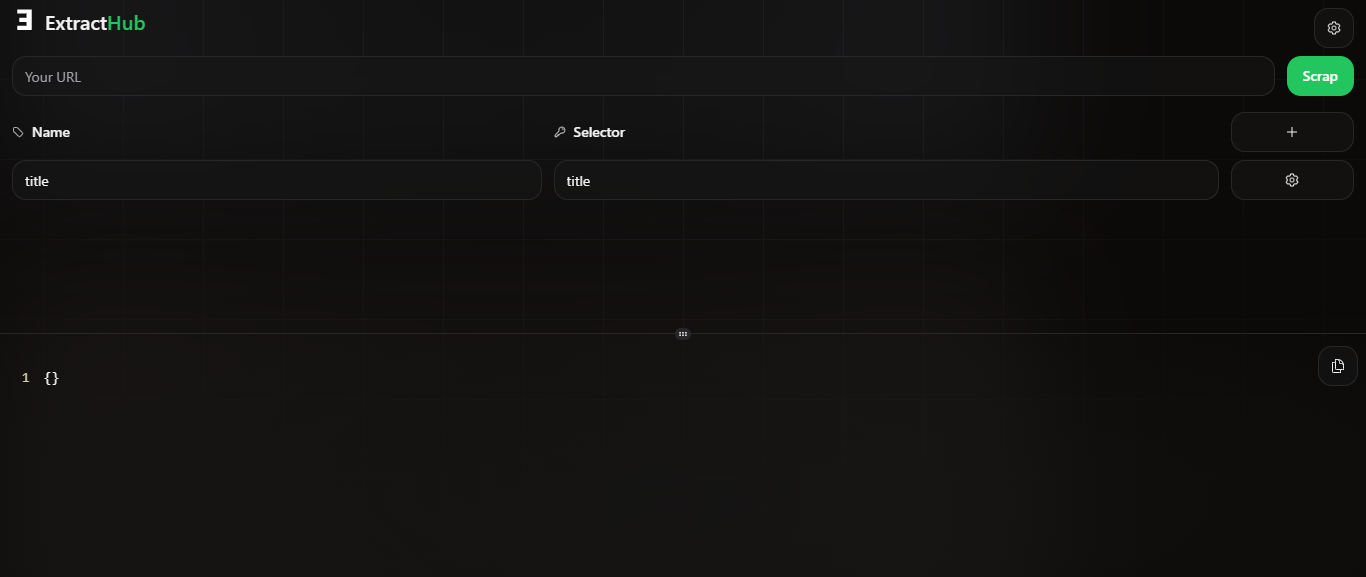
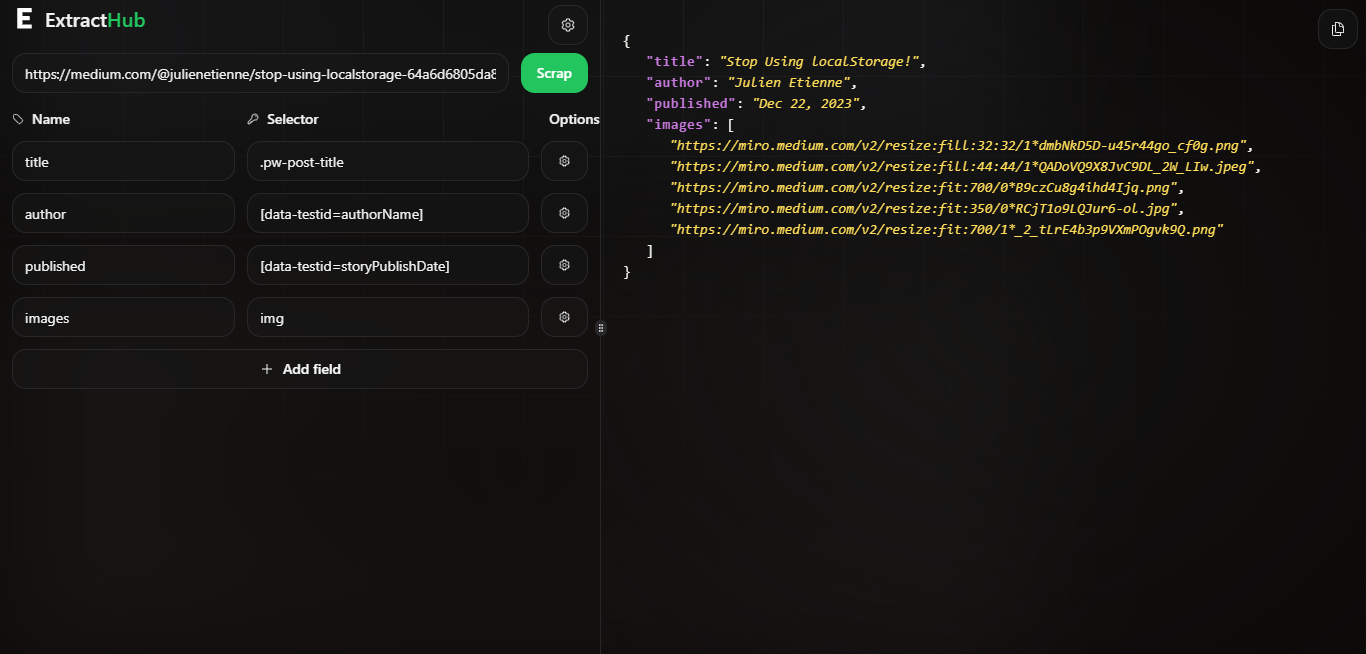
Add bento grid to showcase

diff --git a/components/scraper/scraper-form.tsx b/components/scraper/scraper-form.tsx
@@ -13,7 +13,7 @@ import { yupResolver } from '@hookform/resolvers/yup'
 import { SubmitHandler, useFieldArray, useForm } from 'react-hook-form'
 import { store, updateStore } from '@/stores/scrapper-store'
 import { adapater } from '@/lib/scraper-adapter'
-import { Tag, Key, Plus } from '@/icons'
+import { Tag, Key, Plus, Cog } from '@/icons'
 import { scraper } from '@/actions/playwright-scraper'
 import { FormValues, Field } from '@/types/scraper-types'
 import { useStore } from '@nanostores/react'
@@ -90,7 +90,7 @@ const ScraperForm = () => {
 	}
 
 	return (
-		<section className='relative h-fit max-h-full px-3 overflow-hidden overflow-y-auto	'>
+		<section className='relative max-h-full px-3 overflow-hidden overflow-y-auto h-fit '>
 			<Navbar />
 			<Form {...form}>
 				<form
@@ -125,7 +125,7 @@ const ScraperForm = () => {
 							)}
 						</Button>
 					</div>
-					<div className='flex flex-col gap-2 pb-5 '>
+					<div className='flex flex-col gap-3 pb-5 '>
 						<div className='grid items-center w-full grid-cols-10 gap-3 text-sm font-medium'>
 							<p className='flex items-center w-full col-span-4 gap-2'>
 								<Tag className='w-3 h-3' />
@@ -135,14 +135,10 @@ const ScraperForm = () => {
 								<Key className='w-3 h-3' />
 								<span>Selector</span>
 							</p>
-							<Button
-								type='button'
-								variant='secondary'
-								onClick={addNewField}
-								className='max-w-full custom'
-							>
-								<Plus className='w-4 h-4' />
-							</Button>
+							<p className='flex items-center w-full gap-2'>
+								<Cog className='w-3 h-3' />
+								<span>Options</span>
+							</p>
 						</div>
 						{fields.map((f, i) => (
 							<div key={f.id} className='grid w-full grid-cols-10 gap-3'>
@@ -185,6 +181,15 @@ const ScraperForm = () => {
 								/>
 							</div>
 						))}
+						<Button
+							type='button'
+							variant='secondary'
+							onClick={addNewField}
+							className='flex max-w-full gap-2 custom'
+						>
+							<Plus className='w-4 h-4' />
+							Add field
+						</Button>
 					</div>
 				</form>
 			</Form>

diff --git a/components/showcase.tsx b/components/showcase.tsx
@@ -7,25 +7,28 @@ import {
 	Amazon,
 	Dev,
 	Google,
+	Medium,
 	Nike,
 	Npm,
 	Wordpress,
 	Youtube,
 } from '@/icons'
+import Bento from './bento'
 const Showcase = () => {
 	return (
-		<section className='w-full py-5 max-w-6xl mx-auto flex flex-col gap-20 px-9'>
+		<section className='flex flex-col w-full max-w-6xl gap-20 py-5 mx-auto px-9'>
 			<Image
 				src={img1}
 				alt=''
 				width={1080}
 				height={519}
 				quality={100}
-				className='overflow-hidden rounded-md mx-auto intersect:animate-fade-up intersect:delay-1000'
+				className='mx-auto overflow-hidden rounded-md intersect:animate-fade-up intersect:delay-1000'
 				priority
+				sizes='(min-width:300px)'
 			/>
 
-			<div className='flex flex-col md:flex-row gap-5 md:gap-10 w-full justify-between'>
+			<div className='flex flex-col justify-between w-full gap-5 md:flex-row md:gap-10'>
 				<h2 className='text-4xl  w-full md:w-[80ch] text-balance font-medium intersect:animate-fade-right intersect:animate-delay-300'>
 					Who said that <span className='text-primary'>extracting</span>{' '}
 					data is boring?
@@ -40,18 +43,19 @@ const Showcase = () => {
 				</p>
 			</div>
 
-			<div>
-				<Ticker >
-					<Youtube className='w-14 h-14' />
-					<Google className='w-14 h-14' />
-					<Amazon className='w-28 h-14' />
-					<Dev className='w-14 h-14' />
-					<Wordpress className='w-14 h-14' />
-					<Adidas className='w-14 h-14' />
-					<Nike className='w-14 h-14' />
-					<Npm className='w-14 h-14' />
-				</Ticker>
-			</div>
+			<Ticker>
+				<Medium className='w-14 h-14' />
+				<Youtube className='w-14 h-14' />
+				<Google className='w-14 h-14' />
+				<Amazon className='w-28 h-14' />
+				<Dev className='w-14 h-14' />
+				<Wordpress className='w-14 h-14' />
+				<Adidas className='w-14 h-14' />
+				<Nike className='w-14 h-14' />
+				<Npm className='w-14 h-14' />
+			</Ticker>
+
+			<Bento />
 		</section>
 	)
 }

diff --git a/components/config.tsx b/components/config.tsx
@@ -19,7 +19,7 @@ export const Config = () => {
 					<Cog className='w-4 h-4' />
 				</Button>
 			</PopoverTrigger>
-			<PopoverContent className='relative flex flex-col gap-3 p-4 m-2 overflow-hidden border rounded-md select-none bg-neutral-900 w-60 z-10'>
+			<PopoverContent className='relative z-10 flex flex-col gap-3 p-4 m-2 overflow-hidden border rounded-md select-none bg-neutral-900 w-60'>
 				<span className='w-full h-20 bg-gradient-radial from-gray-500/50 to-stone-500 opacity-50 absolute blur-3xl z-[1] -top-14'></span>
 				<div className='flex items-center justify-between mb-2'>
 					<p className='font-medium'>Editor Config</p>
@@ -60,12 +60,7 @@ export const Config = () => {
 				<div className='z-10 flex items-center justify-between'>
 					<label
 						htmlFor='switch-show-line-numbers'
-						className={cn(
-							'text-sm font-medium text-foreground duration-300 cursor-pointer',
-							{
-								'text-green-500': showLineNumbers,
-							}
-						)}
+						className='text-sm font-medium duration-300 cursor-pointer text-foreground'
 					>
 						Show line numbers
 					</label>
@@ -79,12 +74,7 @@ export const Config = () => {
 				<div className='z-10 flex items-center justify-between'>
 					<label
 						htmlFor='switch-wrap-long-lines'
-						className={cn(
-							'text-sm font-medium text-foreground duration-300 cursor-pointer',
-							{
-								'text-green-500': wrapLongLines,
-							}
-						)}
+						className='text-sm font-medium text-foreground duration-300 cursor-pointer'
 					>
 						Wrap long lines
 					</label>

diff --git a/icons/wordpress.jsx b/icons/wordpress.jsx
@@ -8,7 +8,7 @@ export const Wordpress = ({ className = '', ...props }) => {
 			className={cn('w-5 h-5', className)}
 			{...props}
 		>
-			<g fill='#21759b'>
+			<g fill='white'>
 				<path d='m8.708 61.26c0 20.802 12.089 38.779 29.619 47.298l-25.069-68.686c-2.916 6.536-4.55 13.769-4.55 21.388z' />
 				<path d='m96.74 58.608c0-6.495-2.333-10.993-4.334-14.494-2.664-4.329-5.161-7.995-5.161-12.324 0-4.831 3.664-9.328 8.825-9.328.233 0 .454.029.681.042-9.35-8.566-21.807-13.796-35.489-13.796-18.36 0-34.513 9.42-43.91 23.688 1.233.037 2.395.063 3.382.063 5.497 0 14.006-.667 14.006-.667 2.833-.167 3.167 3.994.337 4.329 0 0-2.847.335-6.015.501l19.138 56.925 11.501-34.493-8.188-22.434c-2.83-.166-5.511-.501-5.511-.501-2.832-.166-2.5-4.496.332-4.329 0 0 8.679.667 13.843.667 5.496 0 14.006-.667 14.006-.667 2.835-.167 3.168 3.994.337 4.329 0 0-2.853.335-6.015.501l18.992 56.494 5.242-17.517c2.272-7.269 4.001-12.49 4.001-16.989z' />
 				<path d='m62.184 65.857-15.768 45.819c4.708 1.384 9.687 2.141 14.846 2.141 6.12 0 11.989-1.058 17.452-2.979-.141-.225-.269-.464-.374-.724z' />

diff --git a/components/bento.tsx b/components/bento.tsx
@@ -1,0 +1,22 @@
+import Image from 'next/image'
+
+const Bento = () => {
+	return (
+		<div className='grid grid-cols-12 gap-4 max-h-fit h-[600px]'>
+			<div className='relative col-span-5 overflow-hidden rounded-md intersect:animate-fade-right intersect:animate-delay-300'>
+				<div className='w-full h-full bg-neutral-800/30 animate-pulse'></div>
+			</div>
+			<div className='relative col-span-7 overflow-hidden rounded-md intersect:animate-fade-left intersect:animate-delay-300'>
+				<div className='w-full h-full bg-neutral-800/30 animate-pulse'></div>
+			</div>
+			<div className='relative col-span-7 overflow-hidden rounded-md intersect:animate-fade-right intersect:animate-delay-500'>
+				<div className='w-full h-full bg-neutral-800/30 animate-pulse'></div>
+			</div>
+			<div className='relative col-span-5 overflow-hidden rounded-md intersect:animate-fade-left intersect:animate-delay-700'>
+				<div className='w-full h-full bg-neutral-800/30 animate-pulse'></div>
+			</div>
+		</div>
+	)
+}
+
+export default Bento

diff --git a/icons/youtube.jsx b/icons/youtube.jsx
@@ -8,9 +8,12 @@ export const Youtube = ({ className = '', ...props }) => {
 		>
 			<path
 				d='M250.346 28.075A32.18 32.18 0 0 0 227.69 5.418C207.824 0 127.87 0 127.87 0S47.912.164 28.046 5.582A32.18 32.18 0 0 0 5.39 28.24c-6.009 35.298-8.34 89.084.165 122.97a32.18 32.18 0 0 0 22.656 22.657c19.866 5.418 99.822 5.418 99.822 5.418s79.955 0 99.82-5.418a32.18 32.18 0 0 0 22.657-22.657c6.338-35.348 8.291-89.1-.164-123.134Z'
-				fill='red'
+				fill='#cccccc'
 			/>
-			<path fill='#FFF' d='m102.421 128.06 66.328-38.418-66.328-38.418z' />
+			<path
+				fill='trasparent'
+				d='m102.421 128.06 66.328-38.418-66.328-38.418z'
+			/>
 		</svg>
 	)
 }

diff --git a/icons/extracthub.jsx b/icons/extracthub.jsx
@@ -10,16 +10,15 @@ export const ExtractHub = ({ className = '', ...props }) => {
 			viewBox='0 0 128.00 128.00'
 			aria-hidden='true'
 			role='img'
-			class='iconify iconify--noto'
 			preserveAspectRatio='xMidYMid meet'
 			fill='#ffffff'
 		>
-			<g id='SVGRepo_bgCarrier' stroke-width='0' />
+			<g id='SVGRepo_bgCarrier' strokeWidth='0' />
 
 			<g
 				id='SVGRepo_tracerCarrier'
-				stroke-linecap='round'
-				stroke-linejoin='round'
+				strokeLinecap='round'
+				strokeLinejoin='round'
 			/>
 
 			<g id='SVGRepo_iconCarrier'>

diff --git a/icons/medium.jsx b/icons/medium.jsx
@@ -1,0 +1,17 @@
+import { cn } from '@/lib/utils'
+
+export const Medium = ({ className = '', ...props }) => {
+	return (
+		<svg
+			xmlns='http://www.w3.org/2000/svg'
+			viewBox='0 0 1770 1000'
+			className={cn('w-5 h-5', className)}
+			{...props}
+			fill='white'
+		>
+			<circle cx='500' cy='500' r='500' />
+			<ellipse ry='475' rx='250' cy='501' cx='1296' />
+			<ellipse cx='1682' cy='502' rx='88' ry='424' />
+		</svg>
+	)
+}

diff --git a/icons/npm.jsx b/icons/npm.jsx
@@ -9,7 +9,7 @@ export const Npm = ({ className = '', ...props }) => {
 			{...props}
 		>
 			<path
-				fill='#cb3837'
+				fill='white'
 				d='M2 38.5h124v43.71H64v7.29H36.44v-7.29H2Zm6.89 36.43h13.78V53.07h6.89v21.86h6.89V45.79H8.89Zm34.44-29.14v36.42h13.78v-7.28h13.78V45.79Zm13.78 7.29H64v14.56h-6.89Zm20.67-7.29v29.14h13.78V53.07h6.89v21.86h6.89V53.07h6.89v21.86h6.89V45.79Z'
 			/>
 		</svg>

diff --git a/app/globals.css b/app/globals.css
@@ -95,7 +95,7 @@
 }
 
 .ticker-slide {
-  @apply animate-ticker flex;
+  @apply flex animate-ticker;
 }
 
 .ticker-slide>* {
@@ -161,11 +161,6 @@
   font-style: italic;
 }
 
-
-* {
-  scrollbar-width: thin;
-  scrollbar-color: transparent;
-}
 
 *::-webkit-scrollbar {
   height: 5px;            

diff --git a/app/page.tsx b/app/page.tsx
@@ -6,7 +6,7 @@ import Showcase from '@/components/showcase'
 const Page = () => {
 	return (
 		<>
-			<main className='flex flex-col w-full h-full pb-10'>
+			<main className='flex flex-col w-full h-full pb-10 antialiased'>
 				<BackgroundPattern/>
 				<Landing />
 				<Showcase />

diff --git a/icons/index.ts b/icons/index.ts
@@ -21,4 +21,5 @@ export * from './wordpress'
 export * from './adidas'
 export * from './nike'
 export * from './npm'
+export * from "./medium"
 
